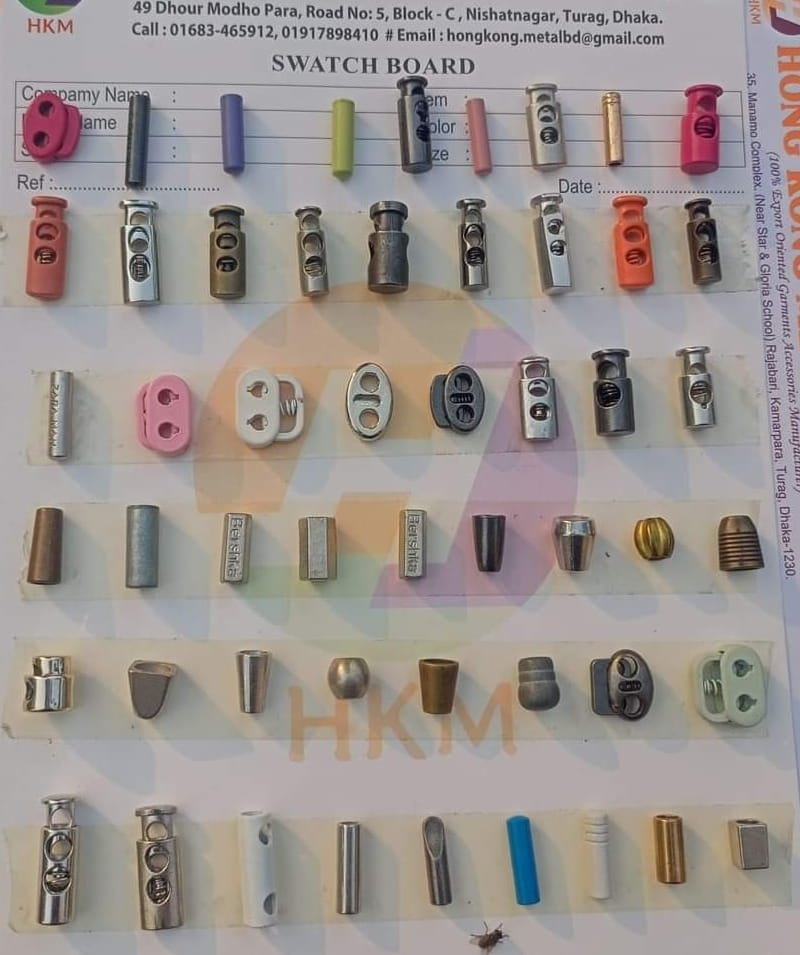
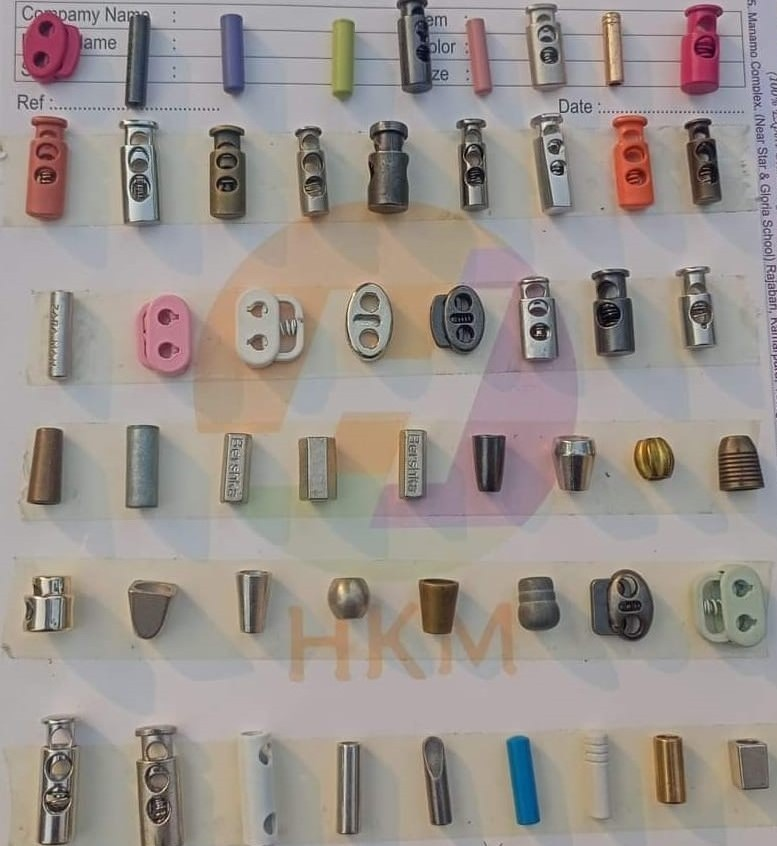
adden an file

diff --git a/src/Page/GarmentsAccessories/Section1.jsx b/src/Page/GarmentsAccessories/Section1.jsx
@@ -8,8 +8,8 @@ import MetalItem1 from '../../assets/Garments Accessories/Metal_Item1.jpg'
 import MetalItem2 from '../../assets/Garments Accessories/Metal_Item2.jpg'
 import MetalItem3 from '../../assets/Garments Accessories/Metal_Item3.jpg'
 import PlasticItem1 from '../../assets/Garments Accessories/Plastic_Item1.webp'
-import PlasticItem2 from '../../assets/Garments Accessories/Plastic_Item2.jpeg'
-import PlasticItem3 from '../../assets/Garments Accessories/Plastic_Item3.jpeg'
+import PlasticItem2 from '../../assets/Garments Accessories/Plastic_Item2.jpeg.jpg'
+import PlasticItem3 from '../../assets/Garments Accessories/Plastic_Item3.jpeg.jpg'
 
 import PrintedPoly1 from '../../assets/Garments Accessories/Printed_Poly1.jpg'
 import PrintedPoly2 from '../../assets/Garments Accessories/Printed_Poly2.webp'
